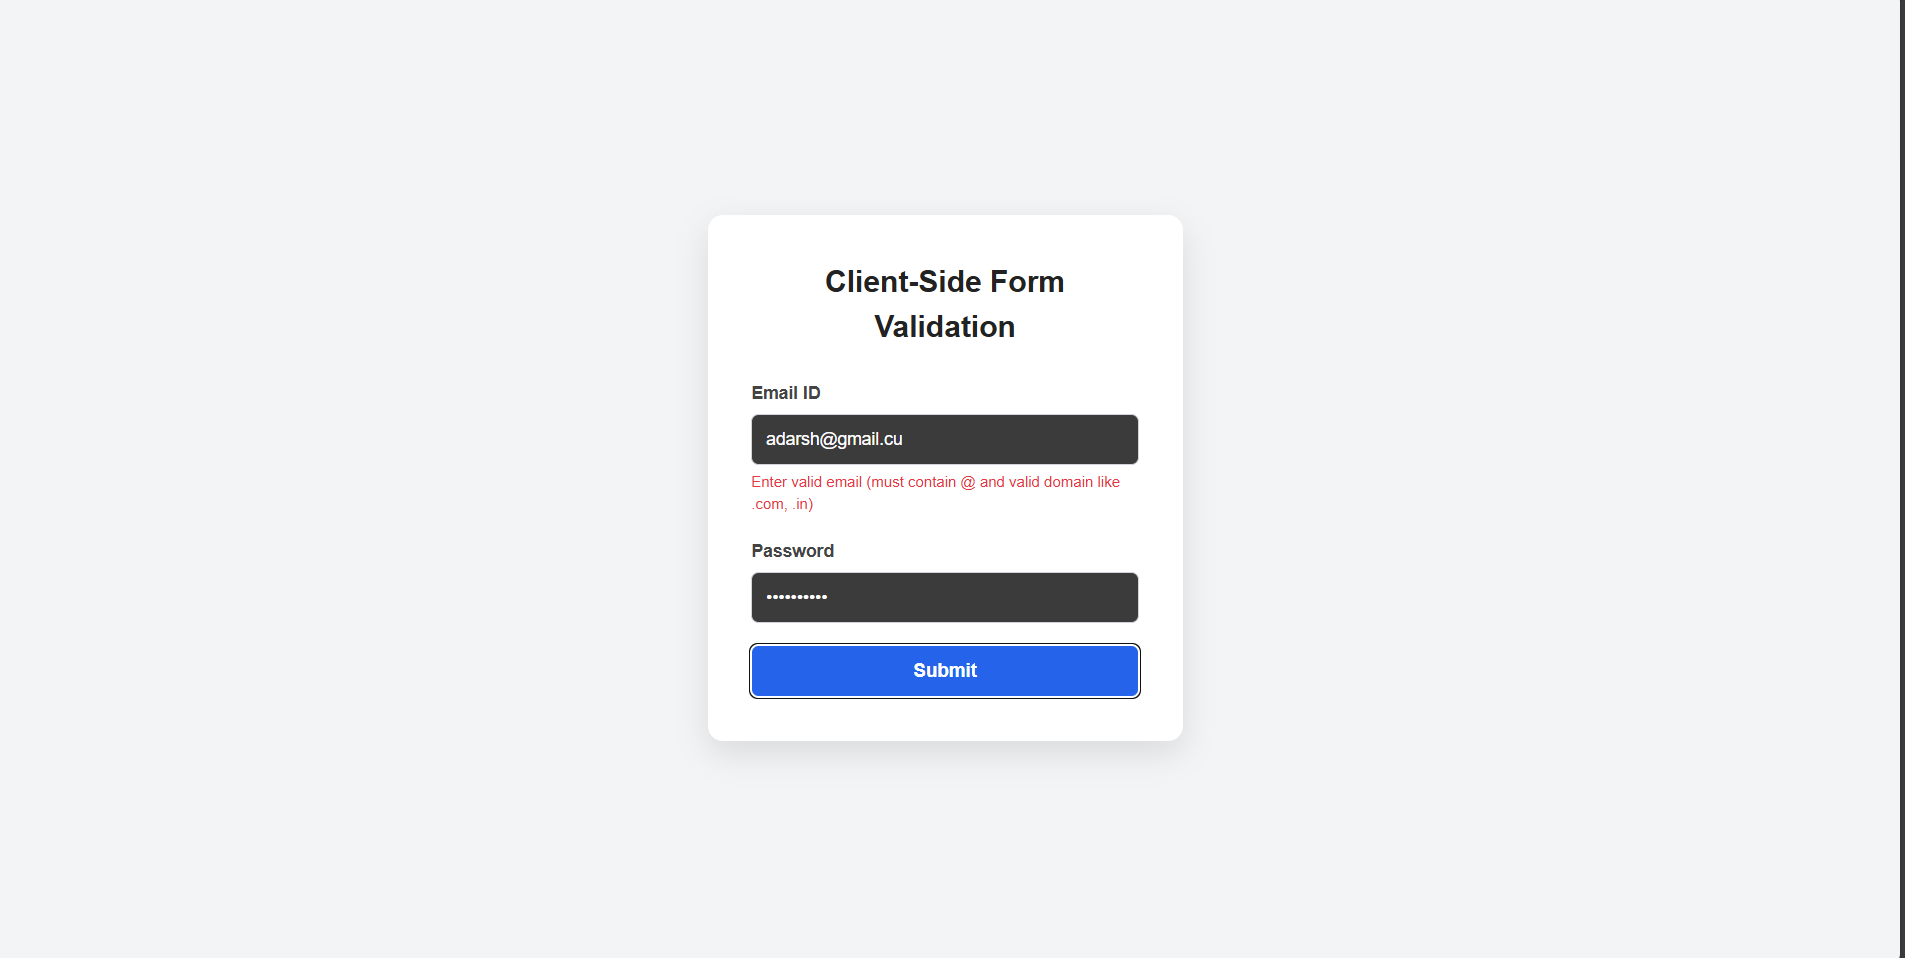
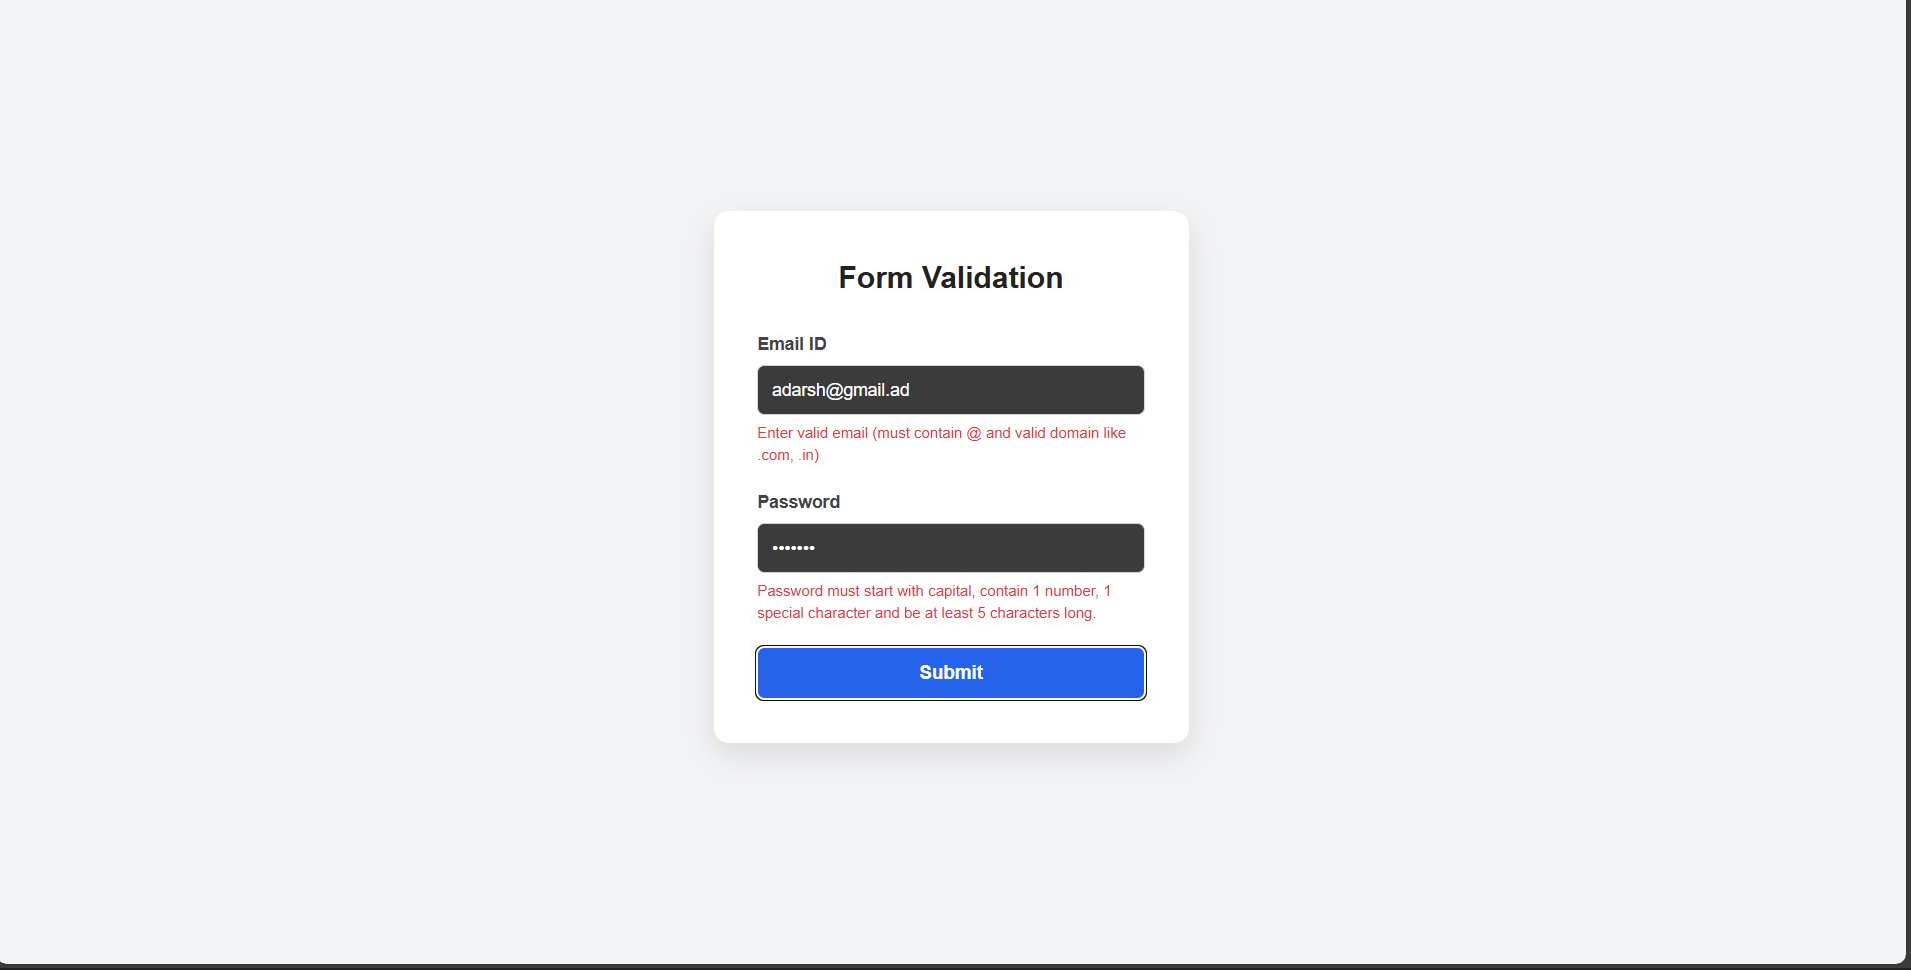
updated ui

diff --git a/exp6/my-app2/src/App.jsx b/exp6/my-app2/src/App.jsx
@@ -39,7 +39,7 @@ function App() {
 
     if (Object.keys(newErrors).length === 0) {
       alert(
-        ` Form Submitted Successfully!\n\nEmail: ${email}\nPassword: ${password}`
+        ` Form Submitted Successfully! `
       );
 
       setEmail("");
@@ -50,7 +50,7 @@ function App() {
   return (
     <div className="container">
       <div className="card">
-        <h2>Client-Side Form Validation</h2>
+        <h2>Form Validation</h2>
         <form onSubmit={handleSubmit}>
           <div className="input-group">
             <label>Email ID</label>
